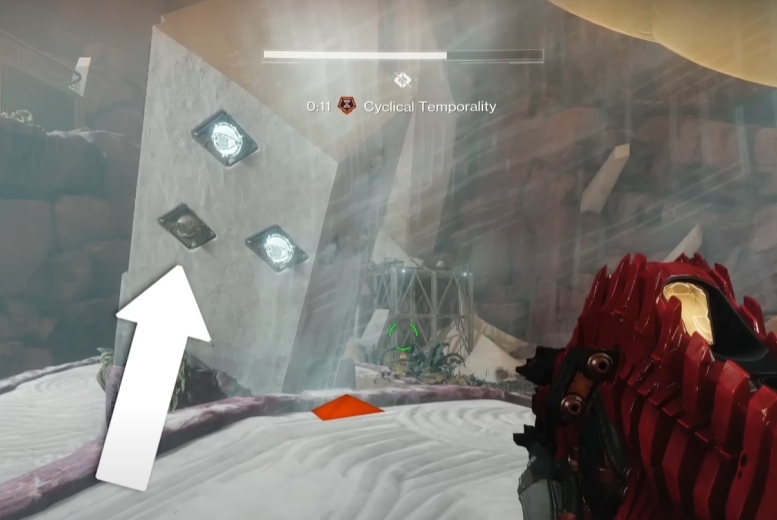
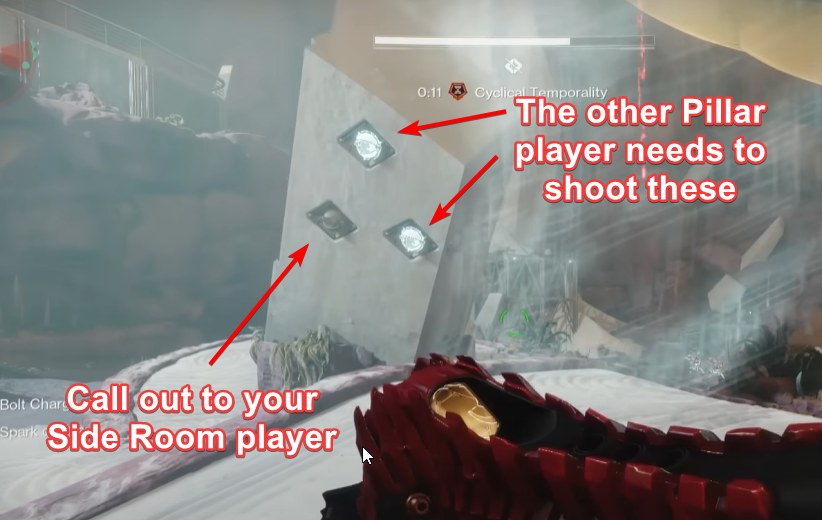
Added Iatros encounter

diff --git a/docs/destiny/desert-perpetual/epoptes-hydra/epoptes-hydra.md b/docs/destiny/desert-perpetual/epoptes-hydra/epoptes-hydra.md
@@ -9,9 +9,9 @@ Objective: defeat the big Hydra
 The party will split into two groups of three, left and right
 
 **Roles**
-- [Side room](#side-room)
-- [Outside pillar](#outside-pillar)
-- Add clear
+- [Side room](#side-room-role) - 2 players
+- [Center Pillar](#center-pillar-role) - 2 players
+- Add clear - 2 players
 
 ![](hydra-map.png)
 
@@ -21,7 +21,8 @@ This is a debuff that lasts 30 seconds. It's can be picked up from the two side 
 
 - If the timer runs out, you die
 - The timer pauses while standing in a Hydra flashlight
-- Standing in the Hydra flashlight also allows the player to see things that the other fire team members need to shoot. 
+- Allows the player to see things that the other fire team members need to shoot. 
+- Allows the player to destroy certain things, such as the a hydra shield's flashlight
 
 ![](flashlight.png) <br/> 
 *The flashlight is generally on the same side as a shield*
@@ -39,7 +40,7 @@ The debuff can only be picked up if the plate is active, which is denoted by the
 - Cyclops will spawn. Defeat those to activate plates. 
 - Side Room players will grab **CT** and run into their room
     - They'll start calling out eyes for each other too shoot
-- Eventually three orbs will appear in the side rooms. The Outside Pillar players will tell their Side Room partners which to shoot
+- Eventually three orbs will appear in the side rooms. The Center Pillar players will tell their Side Room partners which to shoot
 - Once the orb is shot, everyone meets up in the center again to defeat more minotaurs and cyclops
 - Side Room players will return to the side rooms and finish shooting eyes, and the flashlight in their respective rooms
 - Everyone meets in the center again
@@ -48,38 +49,72 @@ The debuff can only be picked up if the plate is active, which is denoted by the
 - Rinse and repeat 
 
 
-
-### Side Room 
+### Side Room Role
 
 When the Side Room players get CT they'll need to run into their side room and stay in the flashlight beam as long as possible. Doing so will pause the CT timer. 
-While in the room, the player will also see six eyes on the hydra. The goal is to shoot those in the correct order. 
+While in the room, the player will also see six eyes on the hydra. The goal is to shoot those in the correct order. The other Side Room player can tell you the order. 
 
-The player will want to be in the flashlight beam for two reasons:
-- It pauses the CT countdown
-- It will light up a pattern in the room, which can be used to tell the other Side Room player which eye to shoot first.
+There's a pattern in the room. Standing in the hydra's flashlight beam will illuminate one of the circles in the pattern. That circle represents which eye the other Side Room player needs to shoot. 
 
 
 ![](indicator.png) <br/>
-*The lit orb is which eye the other Side Room player needs to shoot*
+*The lit circle is which eye the other Side Room player needs to shoot*
+
+
+When the other Side Room player calls out which part of the pattern is lit up, shoot that eye. 
+![](eyes.png)
+
+#### Orbs
+Eventually three floating orbs will appear above the hydra. The Center Pillar player for your side needs to tell you which one to shoot. 
+
+![](orbs.png)
+
+:::warning
+Note that the orbs do **NOT** rotate with the hydra's shield. Keep that in mind when circling around the room. 
+:::
 
 
 
-While standing in the beam, they'll also be able to see 
+Once you shot the correct orb, go to the center room to defeat more minotaurs and hydras. 
 
-    - Side Room players will stand in the Hydra's flashlight, allowing them to see what eyes the other room needs to shoot
-    - Eventually three floating eyes will appear above the hydra. 
-        - The Outside Pillar player will call out which one to shoot for their own side
-    - Shoot the correct orb, then rejoin the players outside of the room.
+#### Repeat
+Once finished in the center you'll reenter your room and repeat the process of shooting eyes on the shield. 
+
+Once all eyes on the shield are destroyed, you can then destroy the flashlight, which will defeat the hydra in your room. Return to the the center room. 
+
+#### Start Damage Phase
+Once in the center, the boss will have another flashlight that only you can see. The other Side Room player will also have a flashlight only they can see. Both Side Room players need to destroy their flashlights, which will start the damage phase. 
 
 
-### Outside Pillar
-Your job is to figure out which of the three floating orbs your Side Room player needs to shoot. You'll do this with the pillar in the center room, which has six conspicuous **divots**, three for each side. 
+
+### Center Pillar Role
+Your job is to figure out which of the three floating orbs your Side Room player needs to shoot, as well as which divots the other Center Pillar player needs to shoot. You'll do this with the pillar in the center room, which has six conspicuous **divots**, three for each side. To see which one your partner needs to shoot, you'll need CT. 
 ![](outside-pillar.png)
 
 You'll know it's time to get CT when you see the following text appear:
 
 > Epoptes blocks the unforseen and prompts function collapse
 
-Once this happens, pick up Cyclicla Temporality and stand in the flashlight. Two of the **divots** should light up. The dark divot is what your Side Room partner needs to shoot. 
+Once this happens, pick up CT and stand in the flashlight. Two of the **divots** should light up. The dark divot is what your Side Room partner needs to shoot. The two lit up eyes are what the **other** Center Pillar player need to shoot. Center Plillar players must be in the flashlight beam to be able to shoot their partner's divots. 
 
-![](outside-pillar-eye.png)
+![](outside-pillar-eye.png) <br/>
+*Remember to stand in the flashlight beam when shooting the lit up divots*
+
+When done correctly, you should see the following in the activity feed:
+
+> Functional collapse suppressed
+
+
+### Damage Phase
+
+During the damage phase, there's a mechanic that can be used to extend it. The mechanic happens multiple times, and each player will be called eventually. 
+
+During damage, the boss will become invulnerable. Two players will each see a flashlight beam coming out of the boss' shield. Note that these players will only see one beam, so they'll know which is theirs. Both players need to stand in their respective beams. Once they do, six eyes will appear. 
+
+![](damage-phase.png)
+
+Both players need to destroy all six eyes, and then the flashlight in the center. Once both players do this, damage phase resumes.
+
+The invulnerability mechanic will happen three times during a single damage phase, and no two guardians will be called twice. 
+
+The damage phase if very long. Many teams went with five players using Outbreak Perfected, and one player using Tractor Cannon, combined with Well and damage supers. 

diff --git a/docs/destiny/desert-perpetual/iatros-wyvern/iatros-wyvern.md b/docs/destiny/desert-perpetual/iatros-wyvern/iatros-wyvern.md
@@ -1,0 +1,131 @@
+---
+sidebar_position: 2
+title: Iatros - Wyvern Encounter
+---
+
+# Iatros - Wyvern Encounter
+
+Objective: Defeat Iatros
+
+
+**Roles**
+- [Tower Shooting](#tower-shooting-role) - 3 players
+- [Climber](#climber-role) - 1 player
+- [Chronon Duty](#chronon-duty-role) - 2 players
+
+![](map.png)
+
+
+## Encounter Mechanic - Chronons (Sand)
+
+Minotaurs will drop an object called Chronons. 
+
+![](chronos.png)
+
+Chronons is deposited into the hourglass by jumping through a ring in the arena. 
+
+## Encounter Mechanic - Ring and Hourglass
+
+There's an hourglass and ring floating in the middle of the room that acts as a timer. Things you need to know about the ring and hourglass:
+
+![](ring.png)
+
+- The yellow stuff below the ring is how many Chronons are stored
+- If the hourglass is empty, the raid wipes
+    - This can happen during the damage phase
+- You deposit more chronons by picking them up, and then jumping through the ring. 
+- The color of the ring tells you which plate DPS starts at
+- Messing up other mechanics can cause the hourglass to lose some Chronons
+
+## Encounter Mechanic - Diastole
+Appears as a buff at the top of the screen with four boxes. Boxes fill up over a few seconds. Once all four boxes fill up, your guardian will be launched into the air. 
+
+- The fourth box filling doesn't effect your guardian if you're already in the air, so jumping at the right moment can prevent you from being launched up uncontrollably. 
+- Diastole doesn't damage your guardian, it's just annoying and something you have to get used to. 
+- The timing of the boxes filling up is important for the Tower Shooting role. 
+
+## Encounter Overview
+
+#### Opening
+- Start by walking to the blue plate
+- Six minotaurs spawn. Defeat all of them
+- Every player should pick up a Chronon and deposit it into the hourglass
+- Once full, shoot the Vex diamond below the hourglass to start the encounter 
+
+#### Main Phase
+- The Climber heads to the damage phase plate (based on ring color), and collects their debuff
+- The Tower Shooters try to time shooting the bottom boxes in their towers
+    - When successful, platforms will spawn above the damage phase plate. 
+    - The Climber ascends the platforms and activates their platform box
+- The Tower Shooters destroy the middle tower box
+    - The Climber ascends again, activating the second platform box
+- The Tower Shooters destroy the top and final tower box
+    - The Climber ascends one more time and activates the final platform box, notifying the team before they do so
+- The party moves to the damage plate
+
+#### Damage Phase
+The boss will teleport to a plate and start walking if there's no one next to them. The box always walks towards higher plates, unless they're at the top. 
+Damage phase ends, and the cycles starts again with six minotaurs spawing at the blue plate. 
+
+
+### Tower Shooting Role
+At the start, determine which tower is yours. There are three in total in the room. At the start they'll have three vertical diamonds before the encounter begins
+
+![](tower-diamonds.png)
+
+Once Diastole starts, they'll turn into cubes. 
+
+Your job is to shoot the boxes on the tower at the exact same time as the other two Tower Shooters. The timing is dependent on Diastole. You want to shoot right as the fourth box fills, but before you get launched in the air. Think of it as a countdown: 3...2...1...Shoot! 
+
+🎵 There are also audio cues that play when Diastole boxes fill up, which can be used to help with the timing 🎵
+
+Boxes are shot from the bottom up. Each destroyed box will create a series of platforms for the climber to ascend. 
+
+If all the Tower Shooting members fail to destroy their boxes at the same time, the hourglass loses some chronons. 
+
+> Chronons dissipate with instability
+
+:::note
+Note that you don't need to shoot the box every time Diastole fills up. It's only a penalty if the timing is wrong. 
+:::
+
+Once the climber has ascended and collected their box at the top of the newly spawned platforms, the tower team can try to time the next shot. 
+
+:::important
+Make sure the climber is ready before shooting the next cube. Destroying a cube spawns new platforms, and makes the previous set disappear! If the climber falls you'll have to start all over again. 
+:::
+
+
+
+
+### Climber Role
+
+Start at the Damage Phase plate (check the color of the Ring). You'll see a floating structure. Touching the structure will give you a debuff called **Absolute Temporality**, which is needed to progress the encounter. The debuff lasts 90 seconds. 
+
+![](climber-plate.png)
+
+When the Tower Shooting successfully destroy a box, three platforms will appear, allowing you to ascend. At the top of the third platform will be a box you can activate. Doing so allows the Tower Shooting team to shoot the next box, and refreshes the duration on Absolute Temporality. 
+
+![](climber-box.png)
+
+Collecting the third (and final) box will start the damage phase. Make sure to give your teammates a chance to get to the damage plate before picking it up. 
+
+#### Imps
+
+The main danger for the climber are Vex Imps that continuously spawn. Do your best to fend them off. Rocket sidearms or rocket pulse rifles are recommended. Invisibility and barricades help as well. 
+
+### Chronon Duty Role
+This role is basically add clear, except you want to focus on taking down minotaurs and depositing chronons to buy your team more time. 
+
+### Damage Phase 
+The boss will spawn at the colored plate matching the ring's color. If the players are far away, the boss will walk to a predetermined plate depending on which plate it started on. If the raid goes to the same plate as the boss, it'll basically stay there and shoot at the raid, allowing for hard-hitting close-ranged weapons to shine, such as Lord of Wolves and Legend of Acrius. 
+
+Boss walking direction
+
+|Starts at|Walks towards|
+|---|---|
+|Red Plate|Blue Plate|
+|Blue Plate|White Plate|
+|White Plate|Blue Plate|
+
+Once damage phase ends, six more minotaurs will spawn, allowing the players to deposit and repeat the whole process. 
